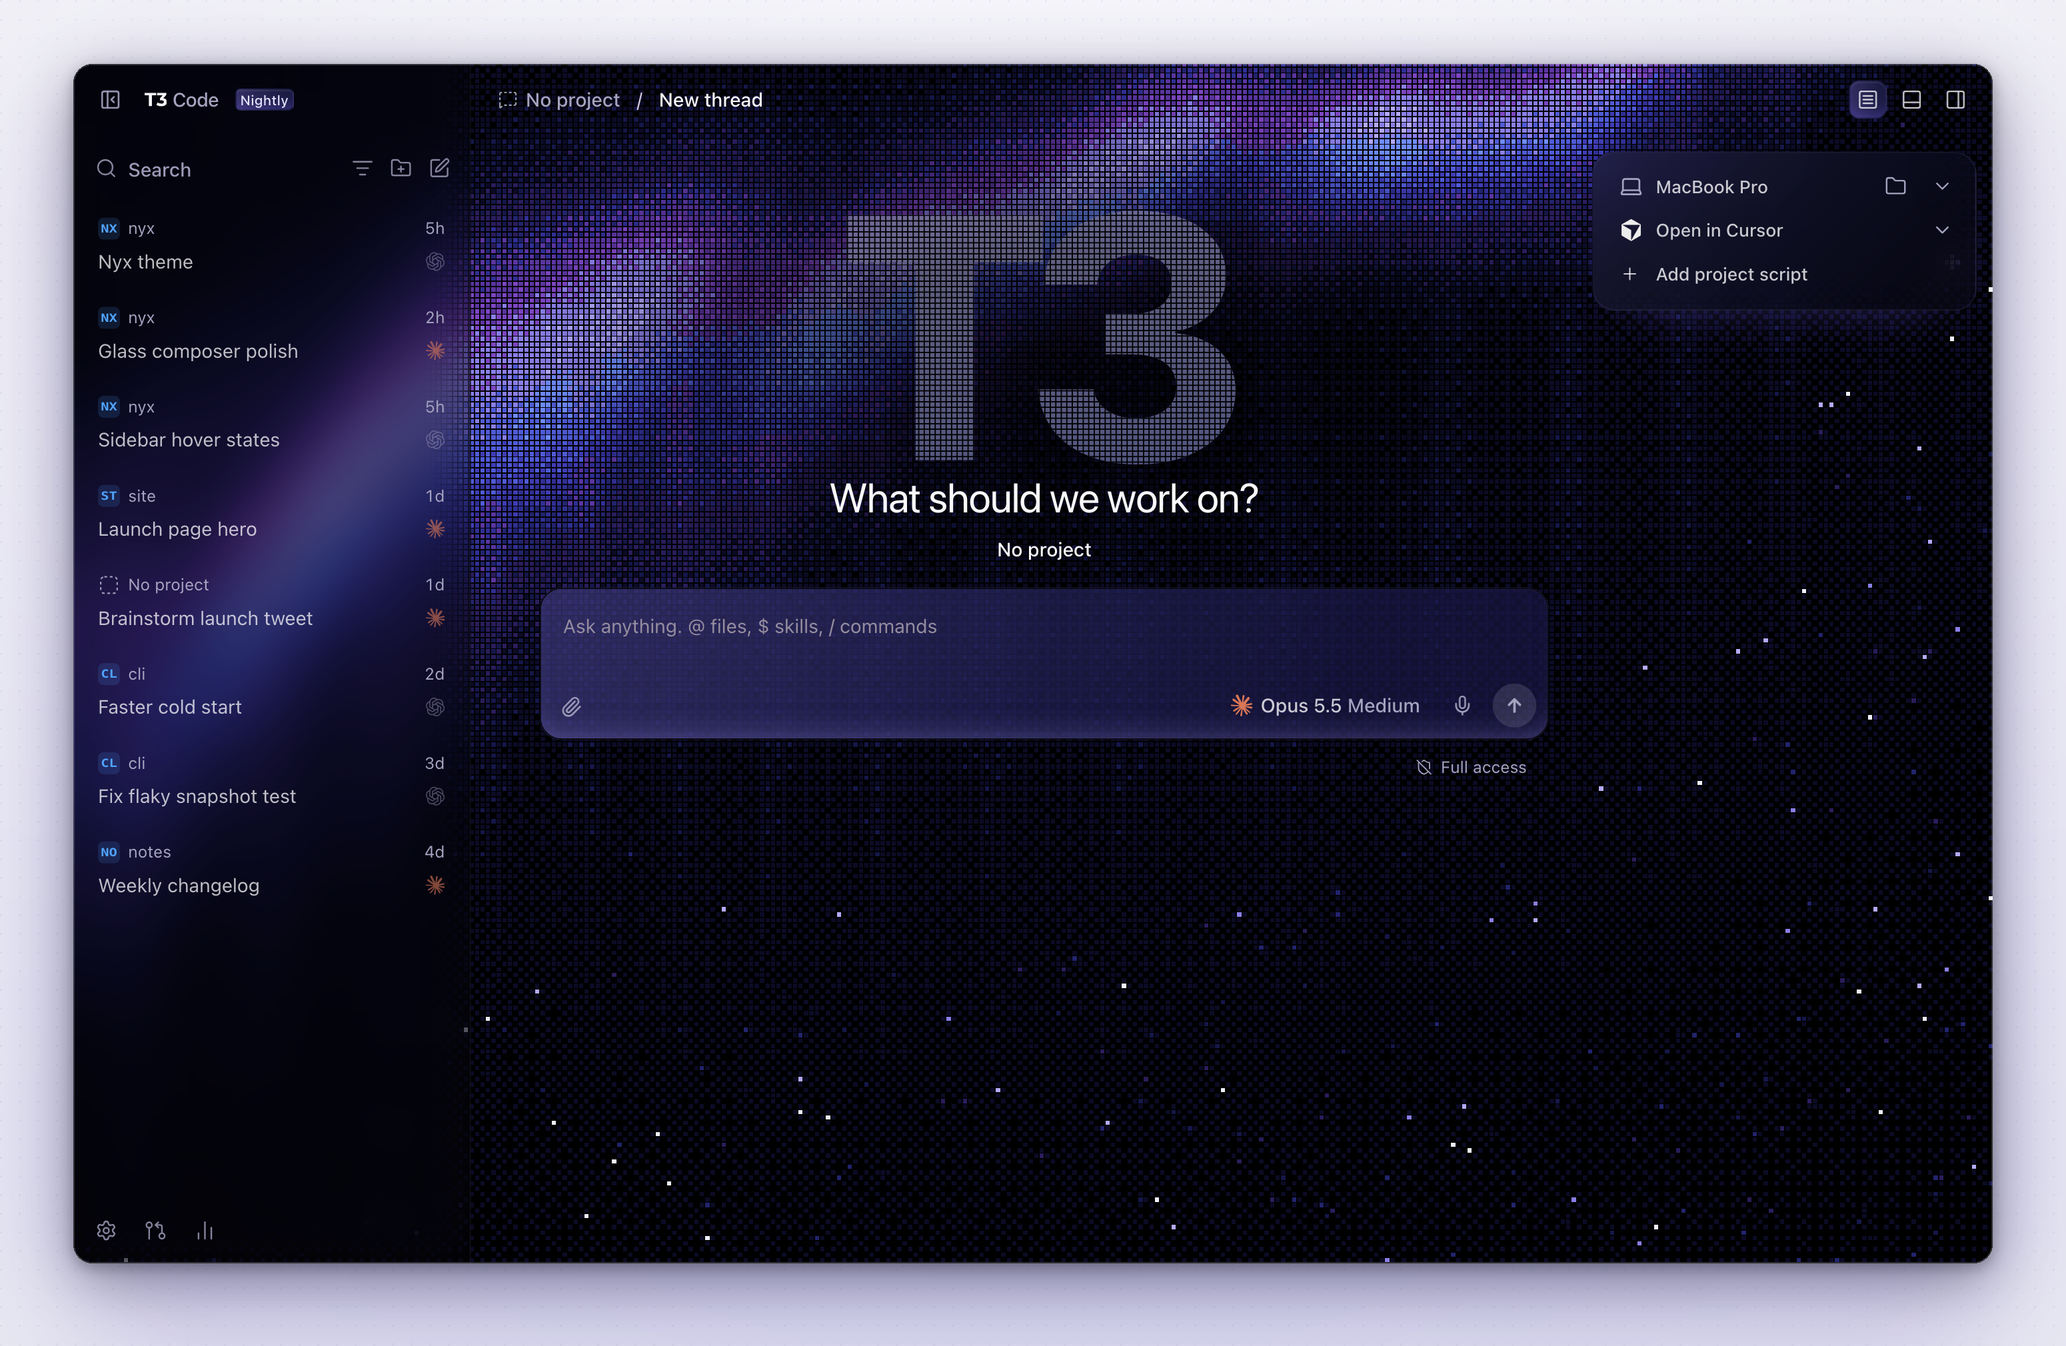
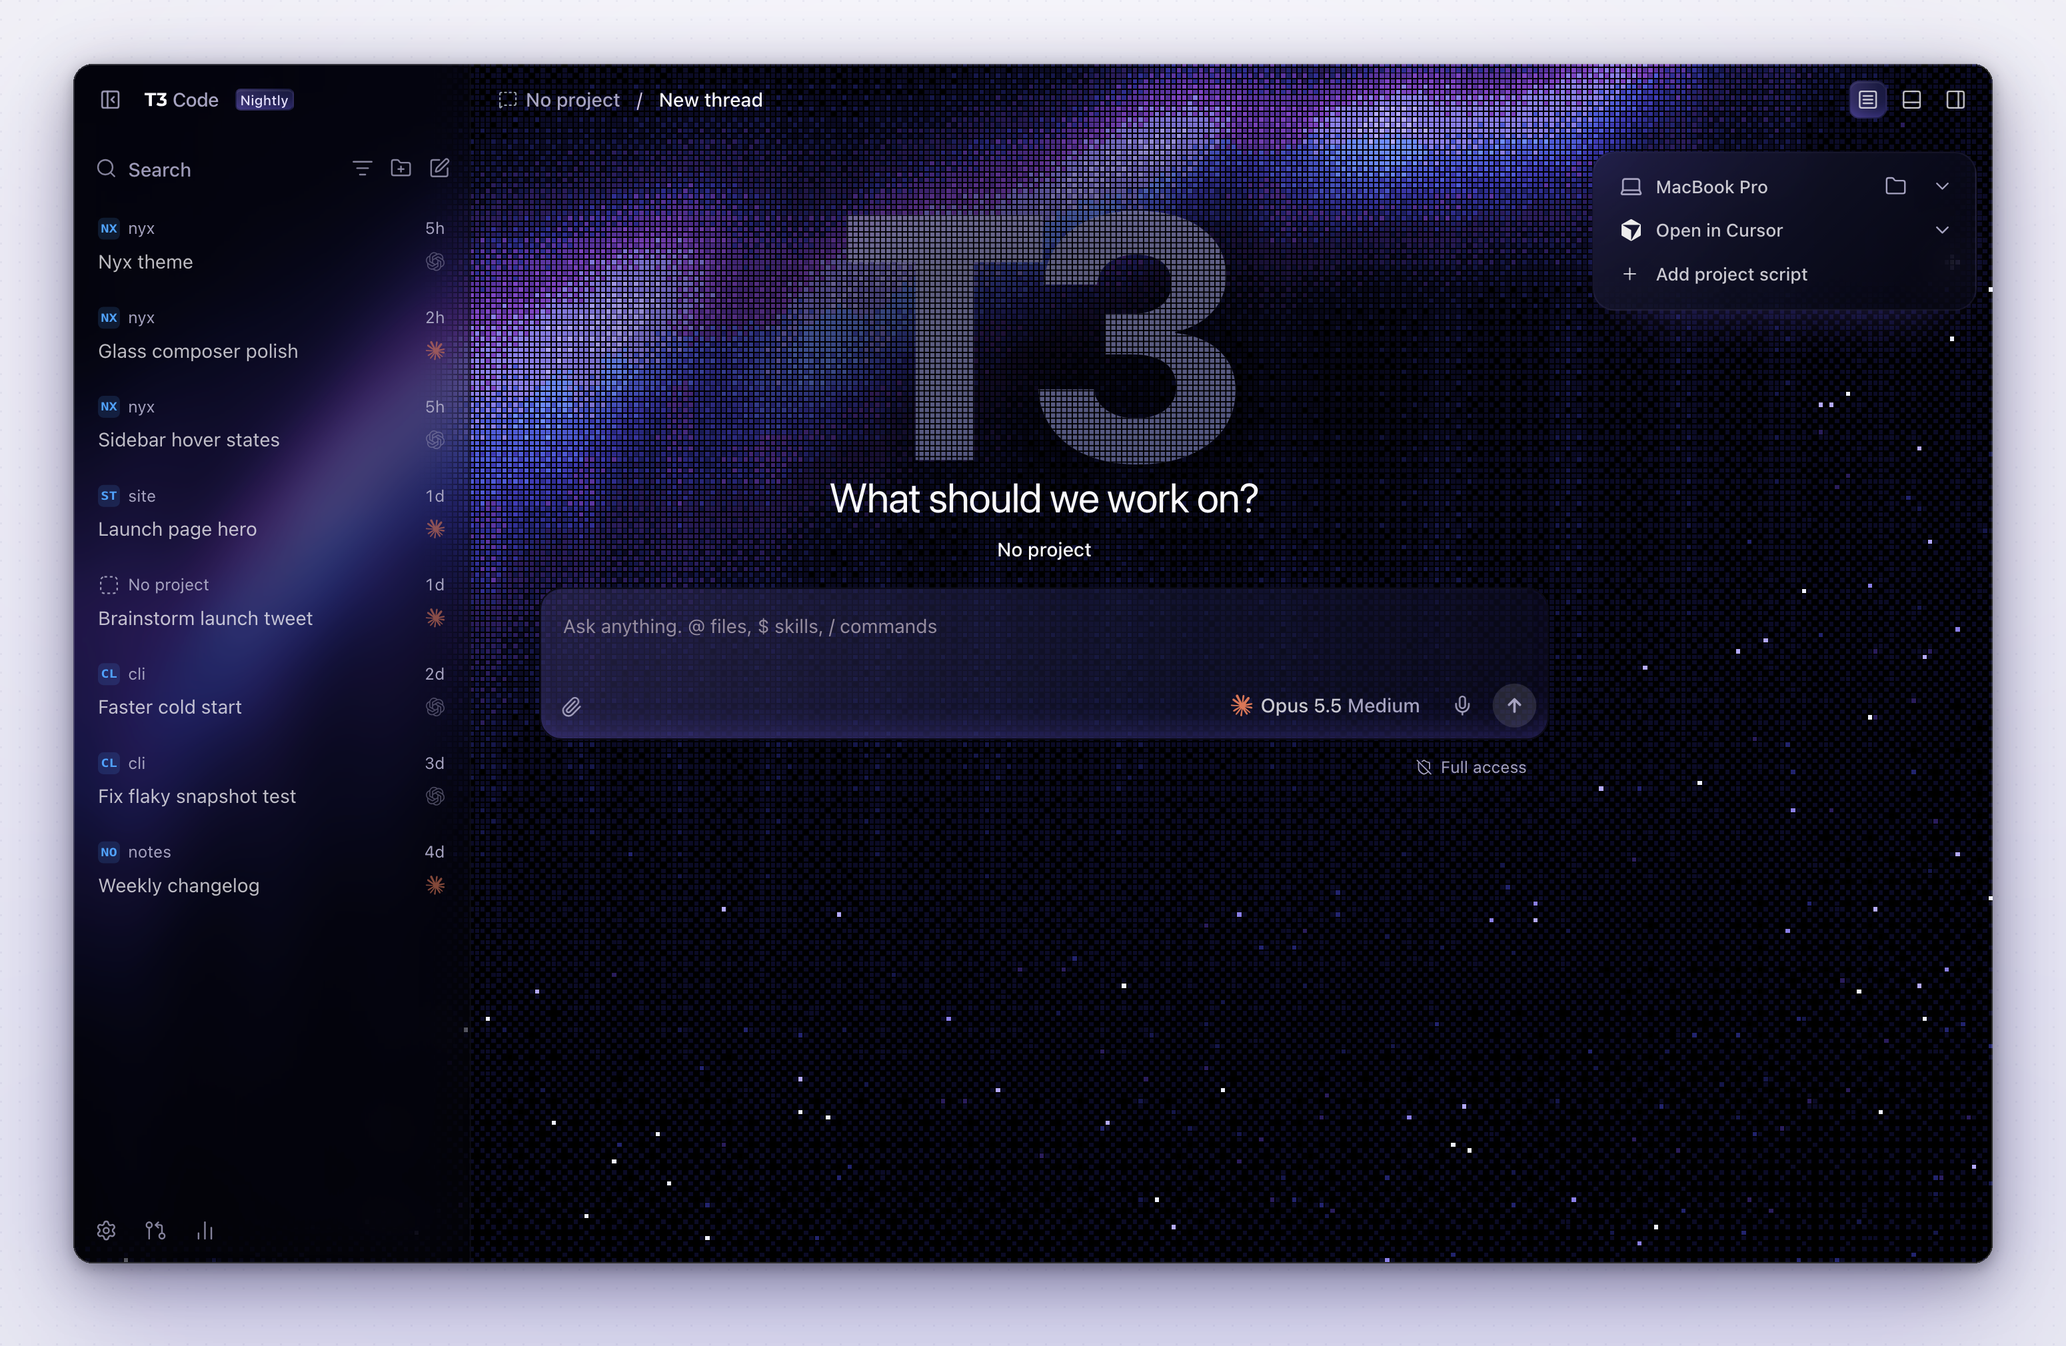
Match the new-thread chat box to the thread chat box
Also pin the sky speckle density so a fresh build matches nyx.json.

Changed region(s): [[0.2478, 0.4368, 0.4956, 0.5617], [0.7125, 0.4368, 0.7744, 0.5305]]

diff --git a/theme.css b/theme.css
@@ -157,11 +157,11 @@
 }
 
 .dark [data-chat-canvas]:not(:has(.messages-timeline-scroll)) [data-slot="composer-host"]::before {
-  background: linear-gradient(110deg, #8a7fe838, #6f8cff0f 50%, #0000 80%), color-mix(in srgb, #1a1745 max(72%, var(--glass-opacity)), #0000) !important;
-  box-shadow: inset 0 0 0 1px #b4aaff3d, inset 0 1px 0 #ffffff1f, inset 0 -16px 26px -20px #a99fff80;
+  background-color: color-mix(in srgb, #0b0a1e max(62%, var(--glass-opacity)), #0000) !important;
 }
 
-.dark [data-chat-canvas]:has(.messages-timeline-scroll) [data-slot="composer-shell"]::before {
+.dark [data-chat-canvas]:has(.messages-timeline-scroll) [data-slot="composer-shell"]::before,
+.dark [data-chat-canvas]:not(:has(.messages-timeline-scroll)) [data-slot="composer-host"]::before {
   background-image: linear-gradient(90deg, #8a7fe830, #6f8cff12 60%, #6f8cff05) !important;
   box-shadow: inset 0 -18px 28px -20px #7864ff66, inset 0 1px 0 #ffffff0d;
 }

diff --git a/art.py b/art.py
@@ -73,7 +73,7 @@ def dither(img: np.ndarray) -> np.ndarray:
     indices = ((jittered[:, :, None, :] - PALETTE[None, None]) ** 2).sum(-1).argmin(-1).astype(np.uint8)
 
     dark = img.sum(-1) < 40
-    speck = dark & (rng.random((HEIGHT, WIDTH)) < 0.011)
+    speck = dark & (rng.random((HEIGHT, WIDTH)) < 0.009)
     indices[speck] = rng.choice([1, 2, 3, 14], size=speck.sum())
     stars = dark & (rng.random((HEIGHT, WIDTH)) < 0.0022)
     indices[stars] = rng.choice([8, 9, 15], size=stars.sum())
